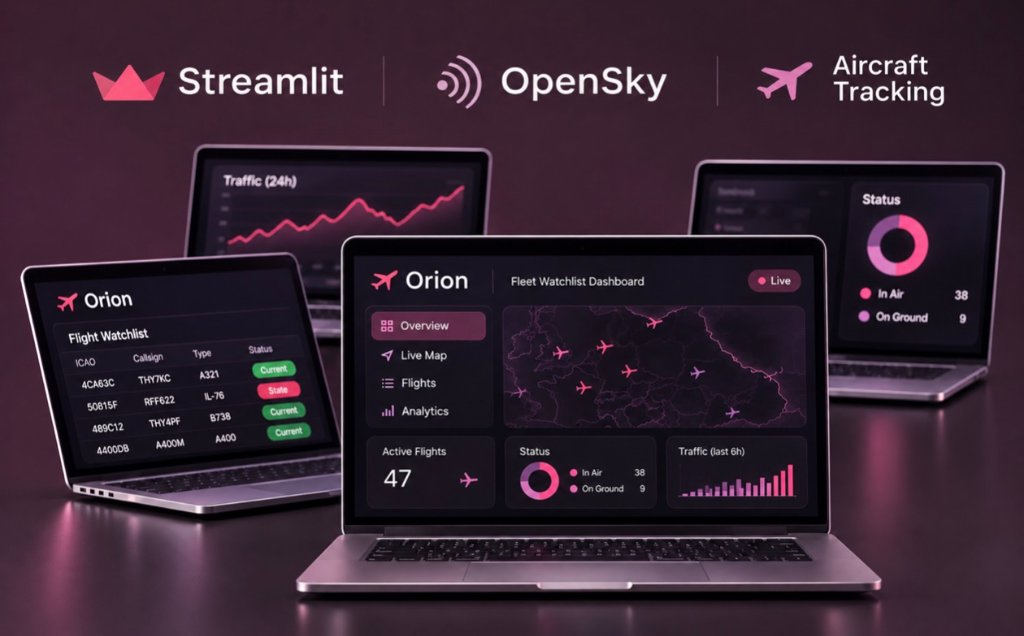
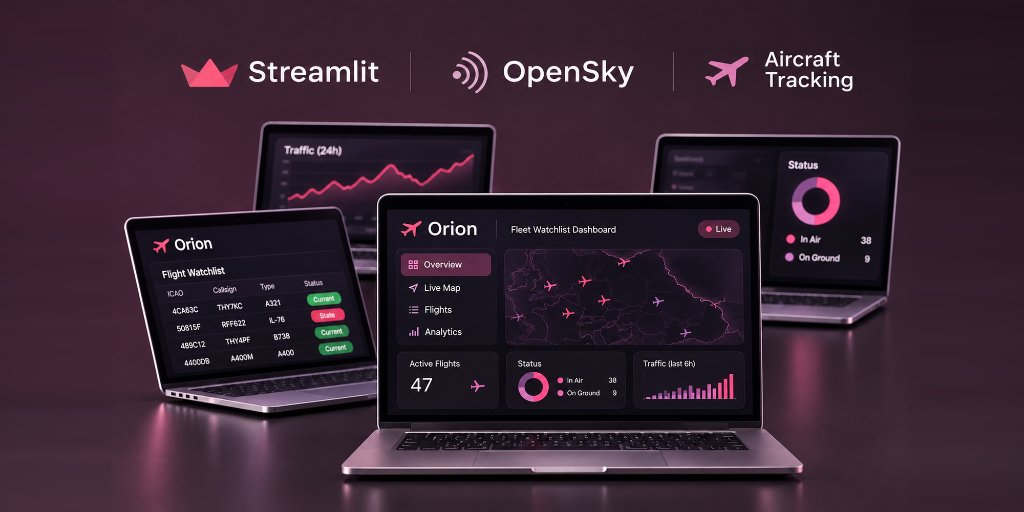
Update Orion Aviation Dashboard preview image to wide version

diff --git a/index.html b/index.html
@@ -9,8 +9,8 @@
     <meta property="og:description" content="Software developer, AI researcher & healthtech builder. INFOMATRIX 2025 Bronze · IOAI National Finalist." />
     <meta property="og:type" content="website" />
     <title>Kseniia Gubenko — Portfolio</title>
-    <link rel="stylesheet" href="styles.css?v=20261110v39" />
-    <script src="script.js?v=20261110v39" type="module"></script>
+    <link rel="stylesheet" href="styles.css?v=20261110v40" />
+    <script src="script.js?v=20261110v40" type="module"></script>
   </head>
   <body class="professional-page">
     <a class="skip-link" href="#main">Skip to content</a>
@@ -218,7 +218,7 @@
               </div>
             </article>
             <article class="project-tile" data-project-label="github.com/rmcN7/orion-t2">
-              <div class="project-pin-surface"><a class="project-preview archive-preview-image" href="https://github.com/rmcN7/orion-t2" target="_blank" rel="noreferrer" aria-label="Open Orion Aviation Dashboard on GitHub"><img src="assets/orion-preview.jpg" alt="Orion Aviation Dashboard" style="object-position: center center;" /></a>
+              <div class="project-pin-surface"><a class="project-preview archive-preview-image" href="https://github.com/rmcN7/orion-t2" target="_blank" rel="noreferrer" aria-label="Open Orion Aviation Dashboard on GitHub"><img src="assets/orion-preview.jpg?v=2" alt="Orion Aviation Dashboard" style="object-position: center center;" /></a>
               <div class="project-tile-copy"><h3>Orion Aviation Dashboard</h3><p>Aviation intelligence dashboard built with OpenSky data.</p><div class="project-tile-footer"><div class="tech-icons"><span>PY</span><span>ST</span><span>API</span><span>DA</span></div><a href="https://github.com/rmcN7/orion-t2" target="_blank" rel="noreferrer">View on GitHub ↗</a></div></div>
               </div>
             </article>

diff --git a/script.js b/script.js
@@ -75,7 +75,7 @@ transitionLinks.forEach((link) => {
       // Navigation still works if storage is unavailable.
     }
     transition?.classList.add("is-leaving");
-    const targetUrl = href.includes("?") ? href : `${href}?v=20261110v39`;
+    const targetUrl = href.includes("?") ? href : `${href}?v=20261110v40`;
     window.setTimeout(() => {
       window.location.href = targetUrl;
     }, 850);
